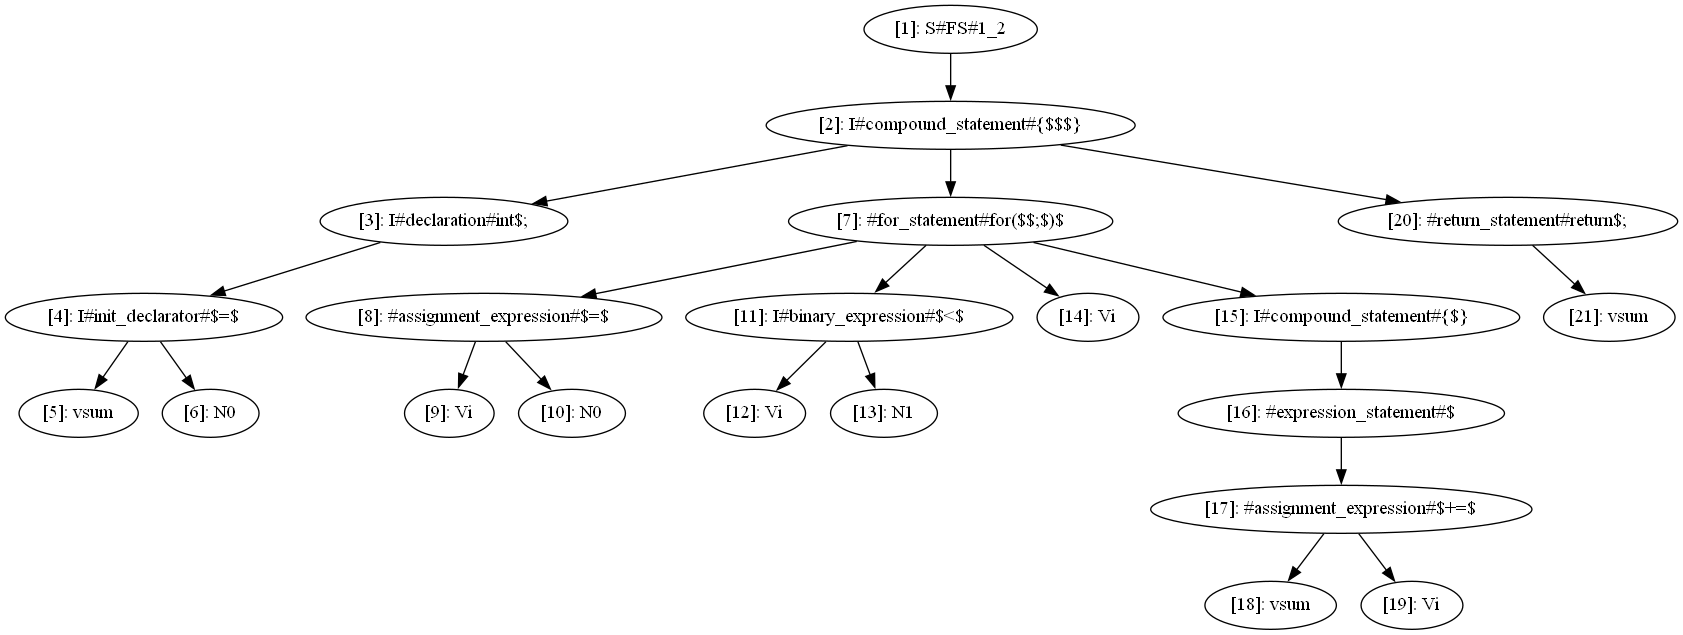
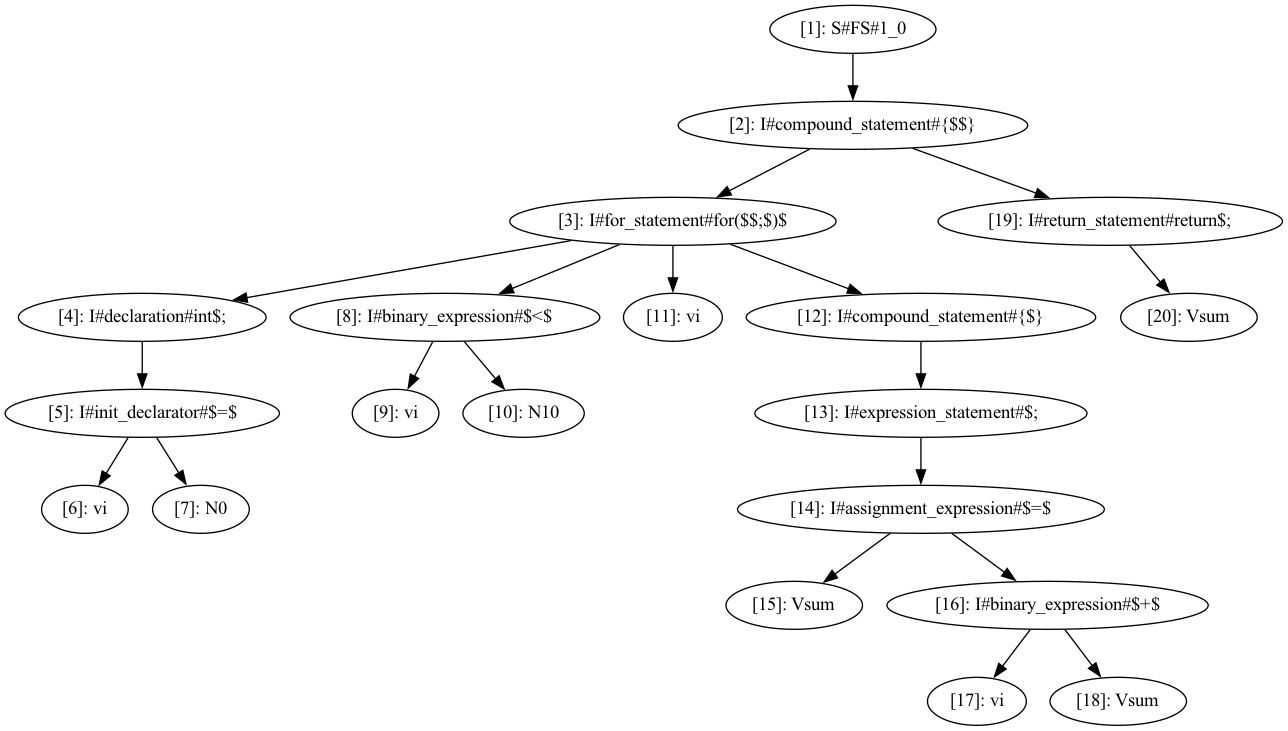
number of children fixed/ syntax final

diff --git a/input_code_ez.c b/input_code_ez.c
@@ -1,21 +1,21 @@
-int summation(int start_val,int end_val) { 
-    int sum= 0; 
+// int summation(int start_val,int end_val) { 
+//     int sum= 0; 
 
-    void hallo (int b) {
-        sum = b + c;
+//     void hallo (int b) {
+//         sum = b + c;
 
-    }
+//     }
 
     
-    return sum; 
-}
+//     return sum; 
+// }
 int main() {
 
-    int func(int a, int b) {
-        b=b-1;
+    for (int i = 0; i < 10; i++){
+        sum = i + sum;
     }
     
-    return result; // Return 0 to indicate successful execution
+    return sum; // Return 0 to indicate successful execution
 } 
 
 

diff --git a/MyCASSVisitor.py b/MyCASSVisitor.py
@@ -147,8 +147,8 @@ class MyCassVisitor(CASSVisitor):
 
     def visitForBlockStatement(self, ctx: CASSParser.ForBlockStatementContext):
     
-        for_node = CassNode(f"#for_statement#for($$;$)$")
-        for_node.add_child(CassNode("4"))
+        for_node = CassNode(f"I#for_statement#for($$;$)$")
+        #for_node.add_child(CassNode("4"))
 
         # Initialization (forInit)
         if ctx.declarationStatement():
